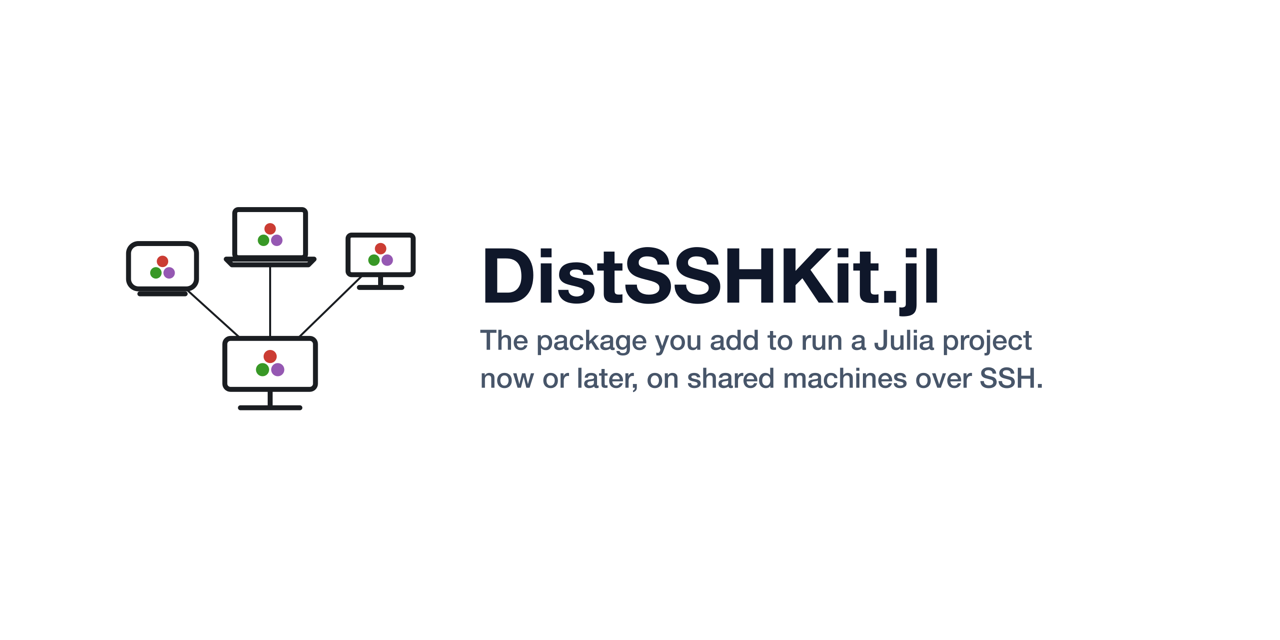
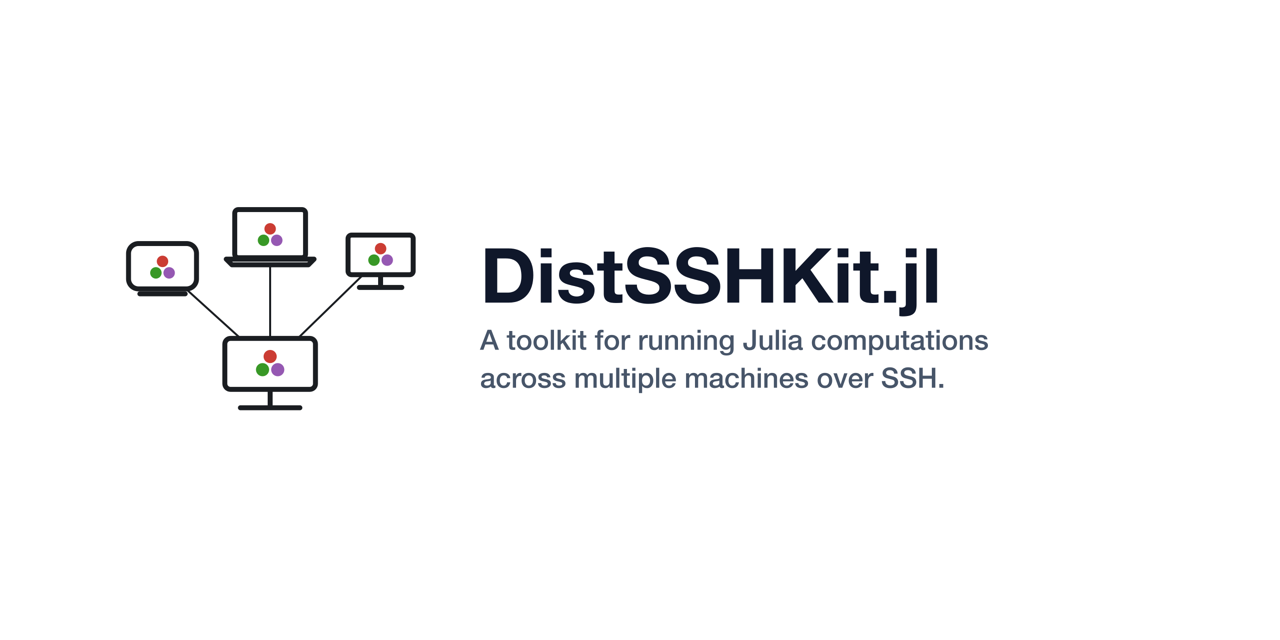
Describe DistSSHKit as a toolkit across multiple machines. (#442)
## Summary

- The opening no longer caps the lab at a few machines or a small
cluster.
- About and the social card use the same toolkit sentence. Topics are
unchanged.
- Host advice that says there is no limit, then to start with a few and
scale, stays.

## Checklist

- [x] Not breaking — or `breaking` label (incompatible behavior)
- [ ] Version raise — `Project.toml` `version` went up (CI reads the
      diff; register when the remaining required checks are green)
- [x] Remote / smoke tested if this PR needs it

Changed region(s): [[0.375, 0.5, 0.8125, 0.625]]

diff --git a/README.ja.md b/README.ja.md
@@ -13,11 +13,9 @@
 [![Discussions](https://img.shields.io/badge/GitHub-Discussions-blueviolet?style=flat-square&logo=github)](https://github.com/yamanori99/DistSSHKit.jl/discussions)
 <!-- markdownlint-enable MD013 -->
 
-追加するパッケージは DistSSHKit である。Julia のプロジェクトを、共有マシンへ SSH して、今すぐかあとで実行する。
+DistSSHKit は、複数のマシンへ SSH して Julia の計算を実行するツールキットである。
+ワークステーション 2 台でも、研究室のより多くのマシンでも、同じように使える。
 対応環境は **macOS、Linux、WSL2 Ubuntu** である (ネイティブ Windows は対象外)。
-
-小規模な研究室や個人でも、高性能なマシンやワークステーションを複数台所有していることは少なくない。
-DistSSHKit は、それらを束ねて小さな計算ノード群として活用するためのものである。
 
 必要な操作は `pkg> add DistSSHKit` のみである。
 ジョブの即時実行にも、キューによる実行にも、このパッケージだけで対応できる。

diff --git a/README.md b/README.md
@@ -13,13 +13,10 @@
 [![Discussions](https://img.shields.io/badge/GitHub-Discussions-blueviolet?style=flat-square&logo=github)](https://github.com/yamanori99/DistSSHKit.jl/discussions)
 <!-- markdownlint-enable MD013 -->
 
-The package you add to run a Julia project now or later, on shared
-machines over SSH. Supported platforms are **macOS, Linux, and WSL2
-Ubuntu** (native Windows is not supported).
-
-Even small labs and individual researchers often own a few high-performance
-machines or workstations. DistSSHKit lets you combine them into a small compute
-cluster.
+DistSSHKit is a toolkit for running Julia computations across multiple
+machines over SSH. It works equally well for a pair of workstations and
+for a larger set of lab machines. Supported platforms are **macOS, Linux,
+and WSL2 Ubuntu** (native Windows is not supported).
 
 A single `pkg> add DistSSHKit` is all you need to install it. That one package
 covers both running a job immediately and running jobs from a queue. DistSSHKit

diff --git a/docs/src/index.md b/docs/src/index.md
@@ -1,7 +1,8 @@
 # [DistSSHKit.jl](@id DistSSHKit.jl)
 
-The package you add to run a Julia project now or later, on shared
-machines over SSH.
+DistSSHKit is a toolkit for running Julia computations across multiple
+machines over SSH. It works equally well for a pair of workstations and
+for a larger set of lab machines.
 Supported on **macOS, Linux, and WSL2 Ubuntu** (not native Windows).
 
 `pkg> add DistSSHKit` is all you need to install it. It covers running a job
